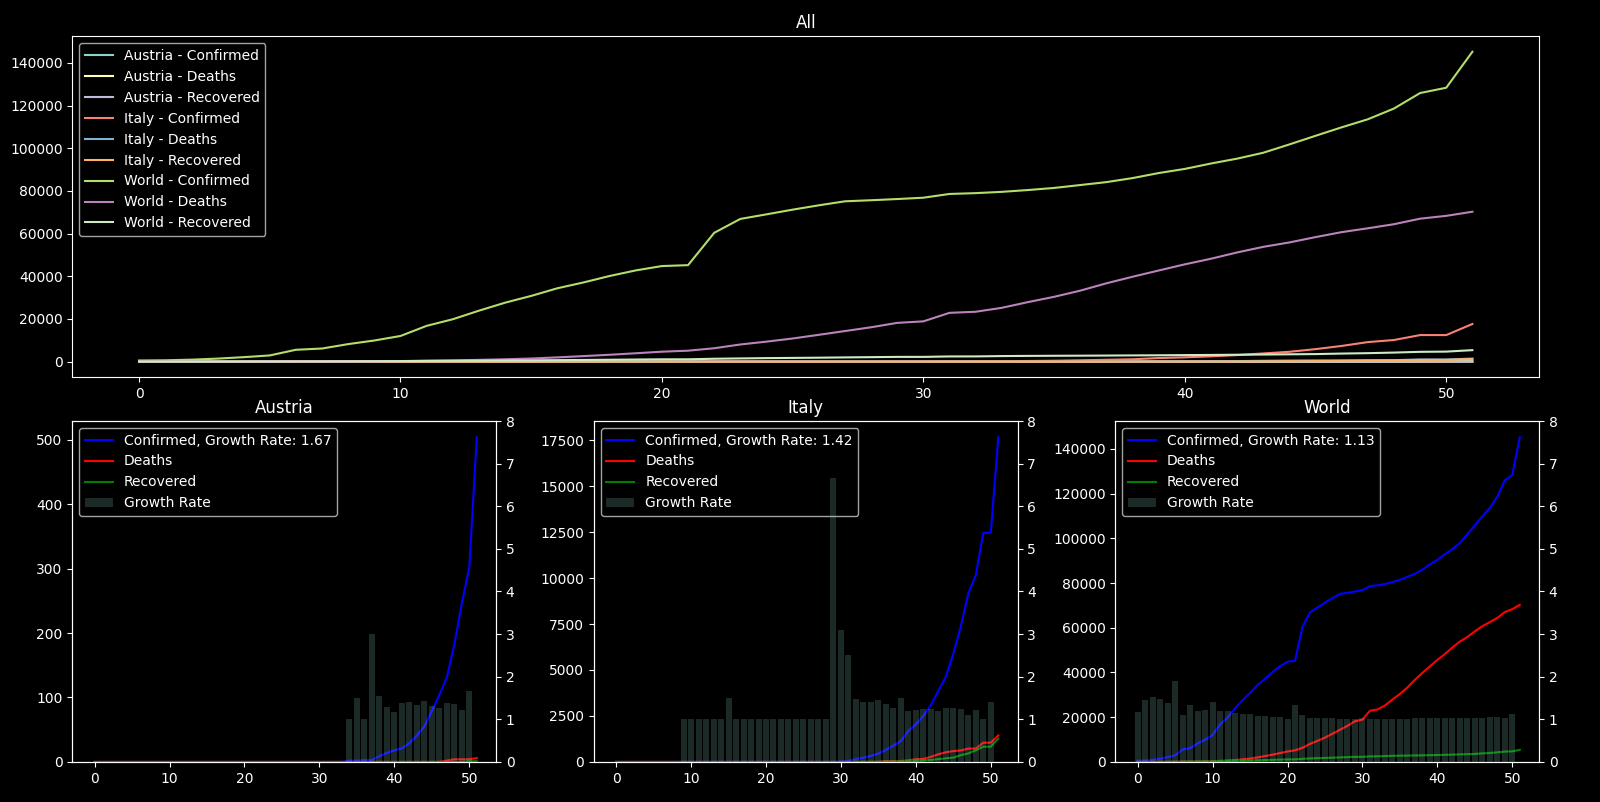
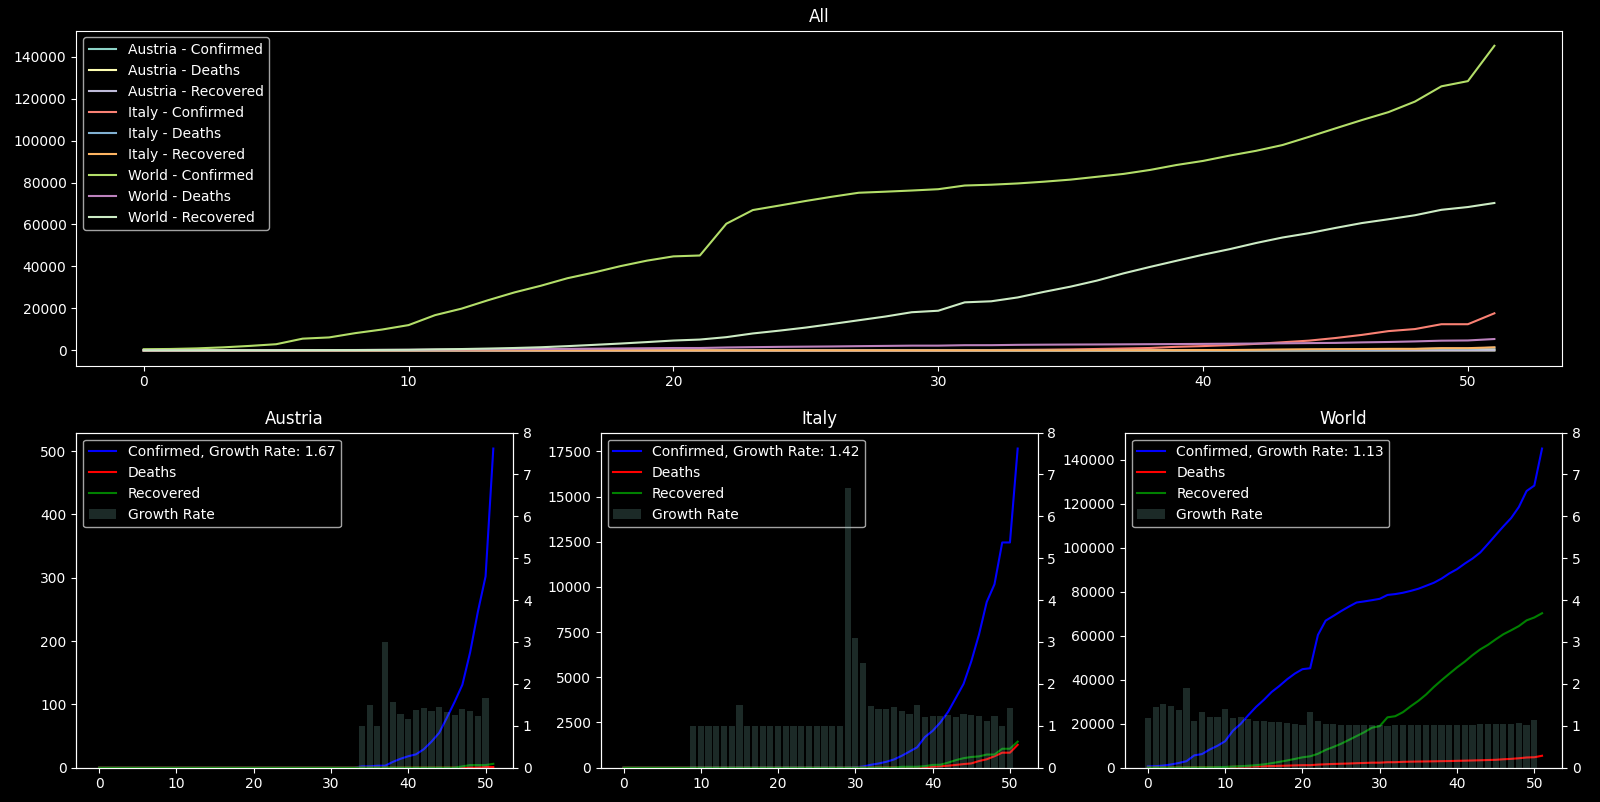
fixed a critical mixup of data :-)

diff --git a/corona.py b/corona.py
@@ -50,7 +50,7 @@ def accumulate(data, filter_=None):
 
 
 def main():
-    confirmed, deaths, recovered = download_data()
+    confirmed, recovered, deaths = download_data()
     filter_italy = lambda _k, _d: _d[_k['Country/Region']] == 'Italy'
     filter_austria = lambda _k, _d: _d[_k['Country/Region']] == 'Austria'
     data = {
